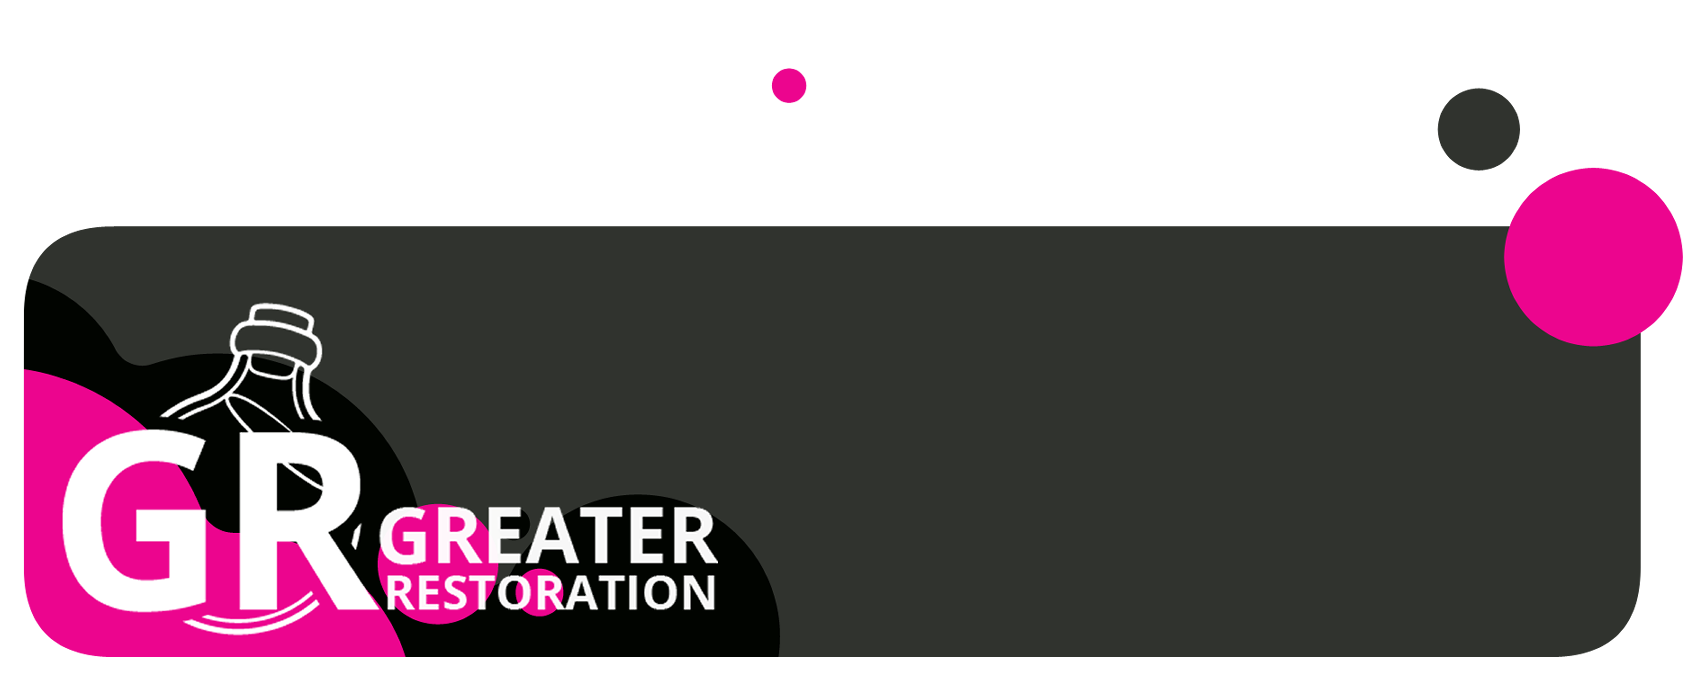
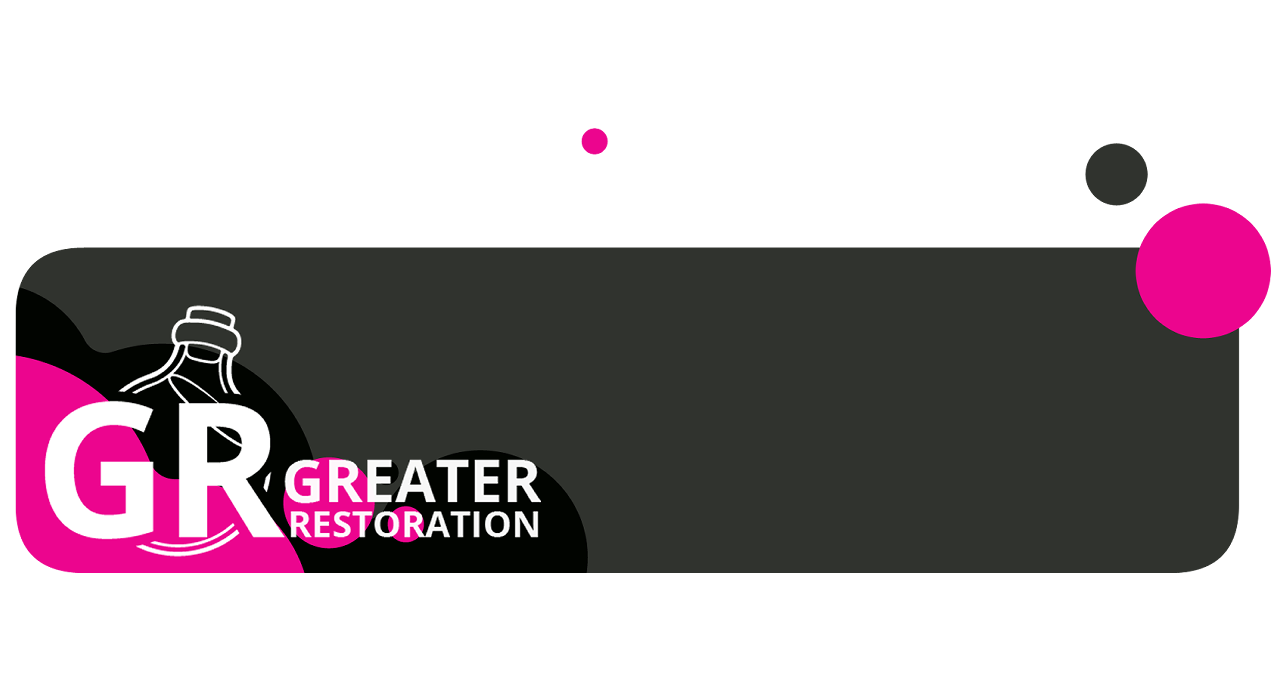
What do you mean it's because of the file name
I named the about section "about.html."
I did not expect properties to be tied to the name "about.html" that would then overwrite my sizing? I renamed the file to "aboutme.html" and this fixed it.

diff --git a/style.css b/style.css
@@ -14,20 +14,7 @@ p, body{
     1. set up your flex box code in the default section
     2. Modify the code in the sections for larger viewports */
  
-   /*HEADER*/
-  .header {
-    display: flex;
-    box-sizing: border-box;
-    justify-content: space-between;
-    align-items:center;
-    background-color: #ffff;
-    gap:16px;
-    font-family: "Montserrat", sans-serif;
-    font-variant:small-caps;
-    font-weight: 800;
-    font-size:24px;
-  }
-
+   /*HEADER BUTTONS*/
   .favicon{
     display:flex;
     align-items:center;
@@ -101,22 +88,7 @@ p, body{
     transform:scale(1.00);
     will-change:transform;
     } 
-    
-  /*Footer*/
-    .footer{
-      display: flex;
-      box-sizing: border-box;
-      justify-content: space-evenly;
-      align-items:center;
-      background-color: #CAFCEA;
-      gap:16px;
-      font-family: "Montserrat", sans-serif;
-      font-variant:small-caps;
-      font-weight: 800;
-      font-size:24px;
-    }
-  /*HOME*/
-  
+
   /*CLIENTS*/
   
   /*ILLUSTRATION*/
@@ -126,7 +98,6 @@ p, body{
   /*CONTACT*/
   /* https://www.phptutorial.net/php-tutorial/php-form/ 
   Maybe one day I'll set this up properly with folders and a server ^^; */
-  
   .form-nest{
     display:flex;
     align-content:center;
@@ -191,13 +162,38 @@ p, body{
             }
             <?php endif ?> */
             
-  /* Containers */           
- 
+  /* Containers */     
+  iframe{
+    width:1280px;
+    aspect-ratio: 16/9;
+    border:none;
+    box-shadow:none;
+  }
+  
+  .img2{
+    width:1280px;
+    aspect-ratio: 16/9;
+    margin:0;
+  }
+  .header {
+    display: flex;
+    box-sizing: border-box;
+    justify-content: space-between;
+    align-items:center;
+    background-color:white;
+    gap:16px;
+    padding:16px;
+    font-family: "Montserrat", sans-serif;
+    font-variant:small-caps;
+    font-weight: 800;
+    font-size:24px;
+  }
+
   .container{
+    width:auto;
     display: flex;
     background-color:white;
     gap:16px;
-    width: 100vw;
     flex-direction:column;
     box-sizing: border-box;
     align-items:center;
@@ -218,6 +214,18 @@ p, body{
     position:absolute;
   }
 
+  .footer{
+    display: flex;
+    box-sizing: border-box;
+    justify-content: center;
+    background-color: #CAFCEA;
+    gap:16px;
+    padding:16px;
+    font-family: "Montserrat", sans-serif;
+    font-variant:small-caps;
+    font-weight: 800;
+    font-size:24px;
+  }
    /* MEDIUM viewport (380px and above)
     You can see that we are just making modifications to the .container and .content-block.
     Because CSS styles cascades. Typically, the styles appears later in the file overwrites the styles above.  
@@ -227,7 +235,7 @@ p, body{
  
   }
 
-    /* LARGE viewport (730px and above) */
+  /* LARGE viewport (730px and above) */
 
   @media only screen and (min-width: 730px) {
 

diff --git a/index.html b/index.html
@@ -1,31 +1,29 @@
 <!DOCTYPE html>
 <html>
-    <head>
-        <link rel="stylesheet" type="text/css" href="style.css">
-        <link rel="preconnect" href="https://fonts.googleapis.com">
-        <link rel="preconnect" href="https://fonts.gstatic.com" crossorigin>
-        <link href="https://fonts.googleapis.com/css2?family=Montserrat:ital,wght@0,100..900;1,100..900&family=Saira+Stencil+One&display=swap" rel="stylesheet">
-        <title>FreyOnDisplay</title>
-        <meta name="viewport" content="width=device-width, initial-scale=1.0">
-    </head>
-    <body>
-        <main>
-            <div class="header">
-                <div class="favicon"><a href="index.html"><img src="images/fodfavicon.webp" alt="Frey on display" style="width:150px"></a></div> 
-                <a class="hbutton" href="index.html">Home</a>
-                <a class="hbutton" href="clients.html">Clients</a>
-                <a class="hbutton" href="illustration.html">Illustration</a>
-                <a class="hbutton" href="about.html">About</a>
-                <a class="hcontact" href="contact.html">Contact</a>
-            
-            </div>
+<head>
+    <link rel="stylesheet" type="text/css" href="style.css">
+    <link rel="preconnect" href="https://fonts.googleapis.com">
+    <link rel="preconnect" href="https://fonts.gstatic.com" crossorigin>
+    <link href="https://fonts.googleapis.com/css2?family=Montserrat:ital,wght@0,100..900;1,100..900&family=Saira+Stencil+One&display=swap" rel="stylesheet">
+    <title>FreyOnDisplay</title>
+    <meta name="viewport" content="width=device-width, initial-scale=1.0">
+</head>
+<body>
+    <main>
+        <div class="header">
+            <div class="favicon"><a href="index.html"><img src="images/fodfavicon.webp" alt="Frey on display" style="width:150px"></a></div> 
+            <a class="hbutton" href="index.html">Home</a>
+            <a class="hbutton" href="clients.html">Clients</a>
+            <a class="hbutton" href="illustration.html">Illustration</a>
+            <a class="hbutton" href="aboutme.html">About</a>
+            <a class="hcontact" href="contact.html">Contact</a>
+        
+        </div>
     
-    <div class="container"><iframe width="1280px" height="700px" src="https://www.youtube.com/embed/avF1WBPDn3E?si=HH0zv39_nPG819Nm" rel=0 style="border:none; box-shadow:none;"></iframe>
-        <img src="images/grbump.webp">
-    
-        <div class="stack"></div></div>
+    <div class="container"><iframe src="https://www.youtube.com/embed/avF1WBPDn3E?si=HH0zv39_nPG819Nm"></iframe>
+        <div class=img2><img src="images/grbump.webp"></div></div>
    
 </main>
-</body>
 <div class="footer">yeeeeeeeeeeeee</div>
+</body>
 </html>

diff --git a/contact.html b/contact.html
@@ -15,7 +15,7 @@
                 <a class="hbutton" href="index.html">Home</a>
                 <a class="hbutton" href="clients.html">Clients</a>
                 <a class="hbutton" href="illustration.html">Illustration</a>
-                <a class="hbutton" href="about.html">About</a>
+                <a class="hbutton" href="aboutme.html">About</a>
                 <a class="hcontact" href="contact.html">Contact</a>
             
             </div>
@@ -58,8 +58,8 @@
     </form>
     </div>
   </div>
-  
+
 </main>
-</body>
 <div class="footer">yeeeeeeeeeeeee</div>
+</body>
 </html>

diff --git a/illustration.html b/illustration.html
@@ -15,12 +15,12 @@
             <a class="hbutton" href="index.html">Home</a>
             <a class="hbutton" href="clients.html">Clients</a>
             <a class="hbutton" href="illustration.html">Illustration</a>
-            <a class="hbutton" href="about.html">About</a>
+            <a class="hbutton" href="aboutme.html">About</a>
             <a class="hcontact" href="contact.html">Contact</a>
         
         </div>
     
 </main>
-</body>
 <div class="footer">yeeeeeeeeeeeee</div>
+</body>
 </html>
